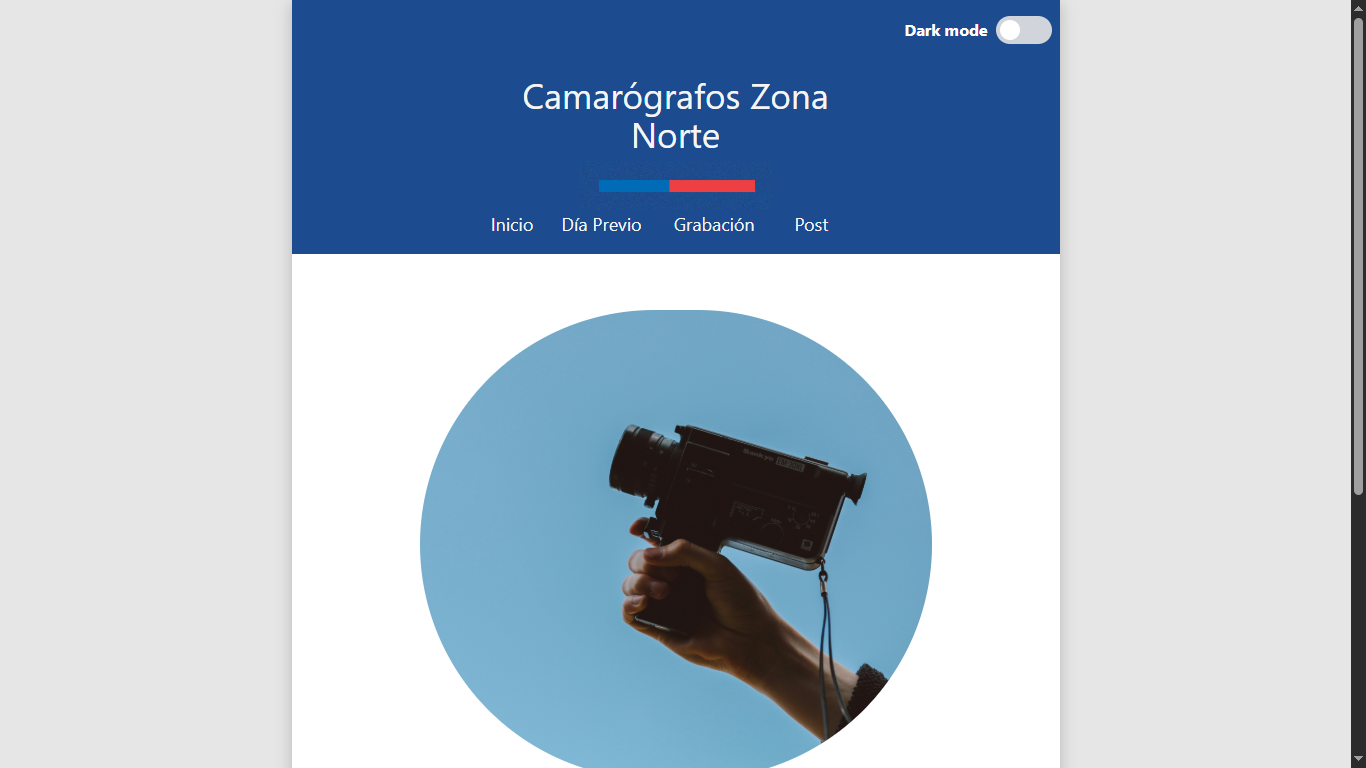
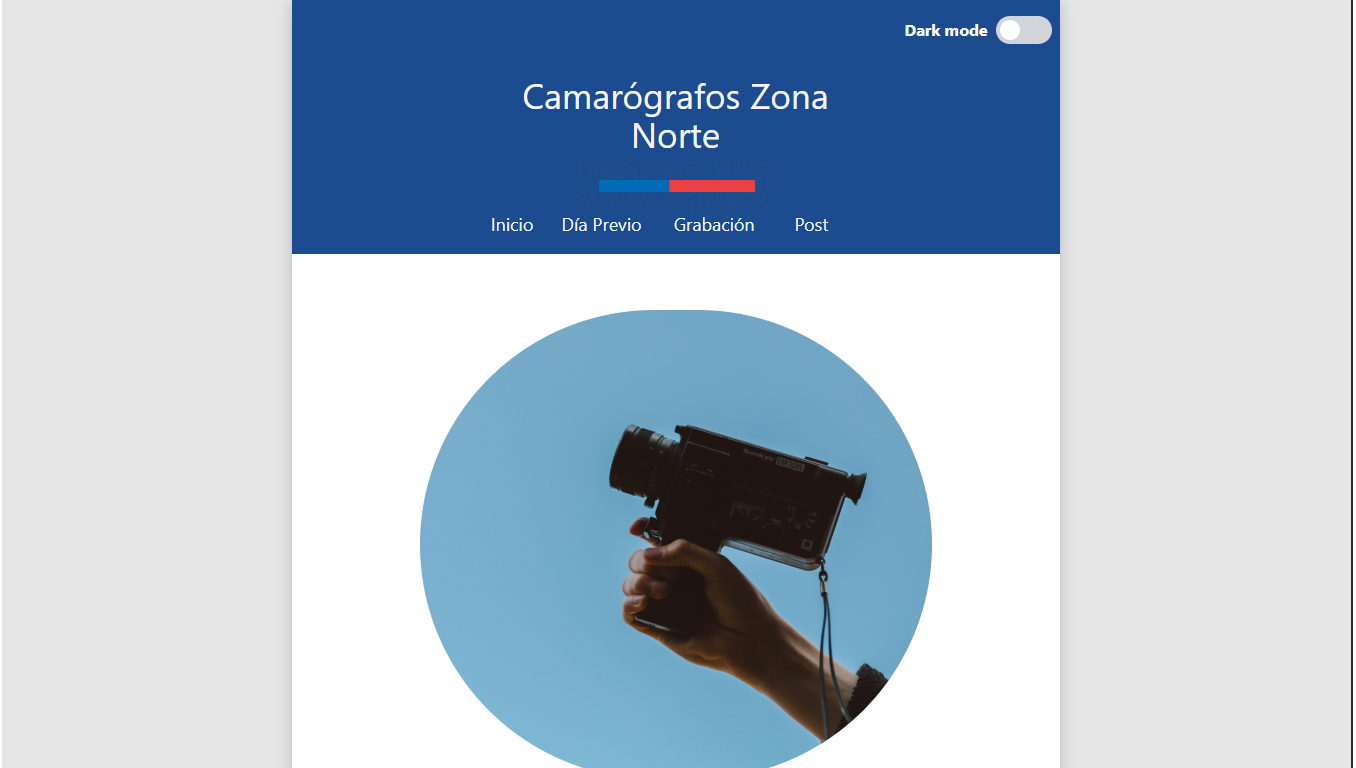
alineaciones

diff --git a/src/components/Portafolio.jsx b/src/components/Portafolio.jsx
@@ -11,17 +11,17 @@ return (
     <p className='text-sm md:text-lg w-11/12 md:w-2/3 lg:w-full mx-auto text-center lg:text-xl mb-5'>
         Conoce algunos de los proyectos que hemos desarrollado junto a nuestros clientes.
       </p>
-    <div className='mt-5 gap-5 flex flex-col lg:flex-row justify-center items-center w-full lg:w-3/4 mx-auto' data-aos="zoom-in">    
-        <div className='text-sm md:text-lg border-1 w-3/4 lg:w-1/2 p-6 text-center rounded shadow'>
-        <img src={tracker} alt='tacker ip' className='w-full h-40 object-cover rounded  transform transition-transform duration-300 hover:scale-105 '/>
+    <div className='mt-5 gap-5 flex flex-col lg:flex-row justify-center items-center w-full lg:w-3/4 mx-auto ' data-aos="zoom-in">    
+        <div className='bg-gray-100 rounded text-sm md:text-lg border-1 border-gray-800 w-3/4 lg:w-1/2 pt-6 pb-6 text-center shadow transform transition-transform duration-300 hover:scale-105'>
+        <img src={tracker} alt='tacker ip' className='w-full h-40 object-cover border-1 border-gray-100  '/>
         <h2 className='text-lg font-semibold color mt-2'>Tracker IP</h2>
         </div>
-        <div className='text-sm md:text-lg border-1 w-3/4 lg:w-1/2 p-6 text-center rounded shadow'>
-        <img src={agricola} alt='agricola del norte s.a' className='w-full h-40 object-cover rounded  transform transition-transform duration-300 hover:scale-105 '/>
+        <div className='text-sm md:text-lg  w-3/4 lg:w-1/2 text-center border-1 border-gray-800  pt-6 pb-6 ounded shadow transform transition-transform duration-300 hover:scale-105 '>
+        <img src={agricola} alt='agricola del norte s.a' className='w-full h-40 object-cover rounded  border-1 border-gray-100 '/>
         <h2 className='text-lg font-semibold color mt-2'>Agrícola del Norte S.A</h2>
         </div>
-        <div className='text-sm md:text-lg border-1 w-3/4 lg:w-1/2 p-6 text-center rounded shadow'>
-        <img src={zona} alt='zona fotica' className='w-full h-40 object-cover rounded   transform transition-transform duration-300 hover:scale-105'/>
+        <div className='text-sm md:text-lg border-1 w-3/4 lg:w-1/2   border-gray-800 pt-6 pb-6 text-center rounded shadow transform transition-transform duration-300 hover:scale-105 '>
+        <img src={zona} alt='zona fotica' className='w-full h-40 object-cover border-1  rounded border-gray-100 '/>
         <h2 className='text-lg font-semibold color mt-2'>Zona Fótica</h2>
         </div>
     </div>  

diff --git a/src/pages/PortafolioPage.jsx b/src/pages/PortafolioPage.jsx
@@ -11,32 +11,33 @@ const PortafolioPage = () => {
 
       <div className='mt-5 mb-15 gap-5 flex flex-col lg:flex-row justify-center items-center w-full lg:w-3/4 mx-auto' data-aos="fade-up">
         
-        <div className='border-1 w-3/4 lg:w-1/2 p-6 text-center rounded shadow'>
+        <div className='bg-gray-100 rounded text-sm md:text-lg border-1 border-gray-800 w-3/4 lg:w-1/2 pt-6 pb-6 text-center shadow  transform transition-transform duration-300 hover:scale-105'>
           <img
             src={camara}
             alt='camarógrafos docentemás'
-            className='w-full h-40 object-cover rounded transform transition-transform duration-300 hover:scale-105'
+            className='w-full h-40 object-cover border-1 border-gray-100 '
           />
           <h2 className='text-lg font-semibold color mt-2'>Camarógrafos DocenteMás</h2>
         </div>
 
-        <div className='border-1 w-3/4 lg:w-1/2 p-6 text-center rounded shadow'>
+        <div className='bg-gray-100 rounded text-sm md:text-lg border-1 border-gray-800 w-3/4 lg:w-1/2 pt-6 pb-6 text-center shadow  transform transition-transform duration-300 hover:scale-105'>
           <img
             src={mascotas}
             alt='portal mascotas'
-            className='w-full h-40 object-cover rounded transform transition-transform duration-300 hover:scale-105'
+            className='w-full h-40 object-cover border-1 border-gray-100'
           />
           <h2 className='text-lg font-semibold color mt-2'>Portal Mascotas</h2>
         </div>
 
-        <div className='border-1 w-3/4 lg:w-1/2 p-6 text-center rounded shadow'>
+        <div className='bg-gray-100 rounded text-sm md:text-lg border-1 border-gray-800 w-3/4 lg:w-1/2 pt-6 pb-6 text-center shadow  transform transition-transform duration-300 hover:scale-105'>
           <img
             src={snap}
             alt='snap'
-            className='w-full h-40 object-cover rounded transform transition-transform duration-300 hover:scale-105'
+            className='w-full h-40 object-cover border-1 border-gray-100'
           />
           <h2 className='text-lg font-semibold color mt-2'>Snap</h2>
         </div>
+        
       </div>
     </>
   );

diff --git a/src/components/Header.jsx b/src/components/Header.jsx
@@ -53,20 +53,20 @@ const Header = () => {
     <>
       <header className="w-full h-full flex justify-between items-center p-4 bg-yellow-500 relative">
         {/* Hamburguesa */}
-        <div className="lg:hidden w-1/12 h-16.5 items-center bg-yellow-500">
+        <div className="lg:hidden md:hidden w-1/12 h-16.5 items-center bg-yellow-500">
           <button onClick={toggleMenu} className="button-menu">
             <Hamburguesa open={openBurger} />
           </button>
         </div>
 
         {/* Logo */}
-        <div className="lg:w-1/4 w-10/12 bg-yellow-500 flex items-start logo-emergente" >  
+        <div className="lg:w-1/4 w-10/12 bg-yellow-500 flex items-start logo-emergente lg:relative lg:left-10" >  
  <Link href="/" > 
  <img src={logoletra} alt="Logo de Solware" className="object-contain lg:w-70 " />
 </Link>
         </div>
         {/* Menú escritorio */}
-        <nav className="lg:w-3/4 gap-4 hidden md:flex justify-end pr-1 bg-yellow-500 text-white place-items-start">
+        <nav className="lg:w-3/4 gap-4 hidden md:flex justify-center pr-1 bg-yellow-500 text-white place-items-start">
           <Link href="/" className="mr-3 text-xl pr-3 ml-20 font-semibold subrayado-naranja-espacio">Inicio</Link>
           <Link href="Servicios" className="mr-3 text-xl pr-3 font-semibold subrayado-naranja-espacio">Servicios</Link>
           <Link href="Portafolio" className="mr-3 text-xl pr-3 font-semibold subrayado-naranja-espacio">Portafolio</Link>
@@ -74,7 +74,7 @@ const Header = () => {
         </nav>
 
         {/* Icono Sol / Luna */}
-        <div className="flex items-center justify-items-normal ">
+        <div className="flex items-center justify-items-normal lg:relative lg:right-20 ">
           <label htmlFor="darkmode" className="bg-white w-14 h-7 rounded-full cursor-pointer p-1 border-1  border-yellow-600 relative focus:outline-none focus:ring-0">
             <input onClick={handleClick} type="checkbox" id="darkmode" className="sr-only peer " checked={darkMode} readOnly />
             <div id="luna" className="w-5 h-5  rounded-full peer-checked:translate-x-6 transition-all bg-white ">

diff --git a/src/pages/ContactoPage.jsx b/src/pages/ContactoPage.jsx
@@ -7,8 +7,8 @@ const ContactoPage = () => {
  
   return (
     <>
-      <h1 className='text-2xl md:text-4xl lg:text-5xl font-bold color text-center mt-7 md:mt-10 mb-0 md:mb-2 color ' data-aos="fade-up" >CONTACTO</h1>
-    <div className=' lg:flex  lg:flex-row lg:mb-12 mb-7 items-stretch '>
+      <h1 className='text-2xl md:text-4xl lg:text-5xl font-bold color text-center mt-7 md:mt-10 mb-1 md:mb-2 color ' data-aos="fade-up" >CONTACTO</h1>
+    <div className=' lg:flex  lg:flex-row lg:mb-20 mb-7 items-stretch '>
       <div className='hidden lg:flex  w-3/12  h-full  relative left-10 ' data-aos="fade-right">
    <video
   autoPlay

diff --git a/src/components/Footer.jsx b/src/components/Footer.jsx
@@ -20,9 +20,9 @@ const Footer = () => {
     <img
       src={logoletra}
       alt="Logo"
-      className="w-89 h-17  object-contain lg:relative lg:left-4 "
+      className="w-89 h-17  object-contain lg:relative lg:left-15 "
     />
-    <span className="text-sm text-white bottom-3 mx-0  md:text-center lg:text-normal lg:relative lg:left-5 lg:mt-3.5 ">Desarrollo que impulsa tu negocio</span>
+    <span className="text-sm text-white bottom-3 mx-0  md:text-center lg:text-normal lg:relative lg:left-15 lg:mt-3.5 ">Desarrollo que impulsa tu negocio</span>
   </div>
 
   {/* Navegación */}
